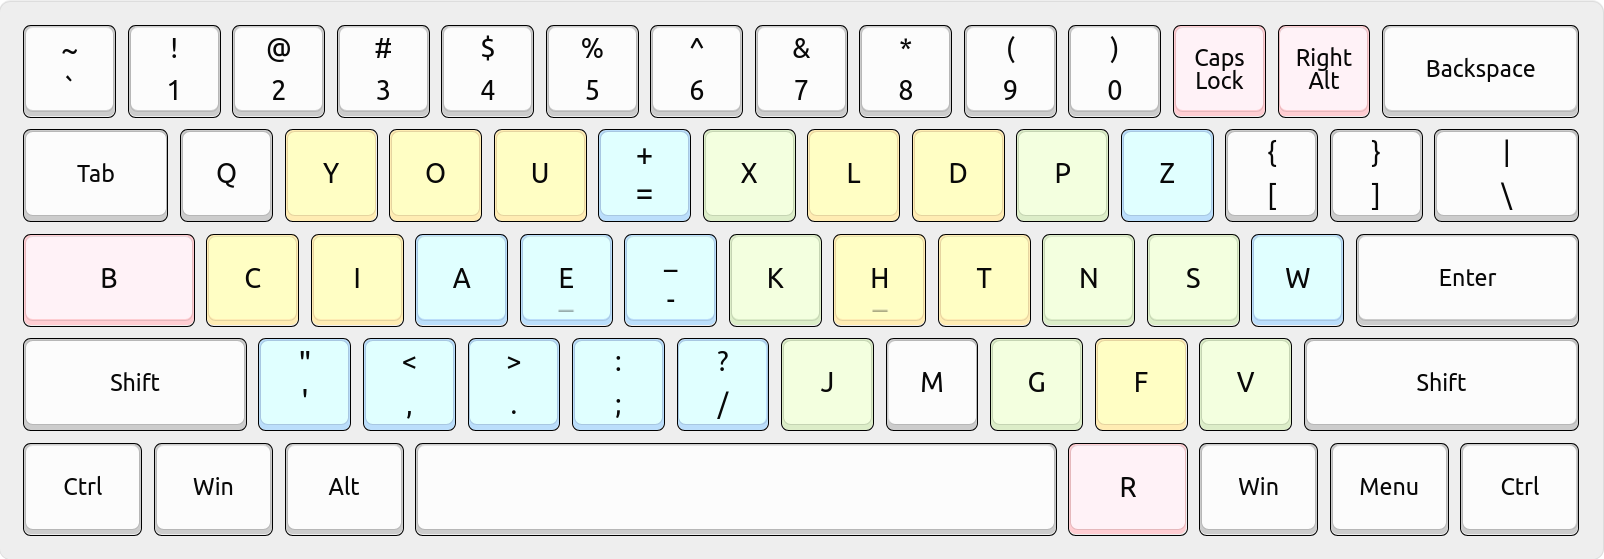
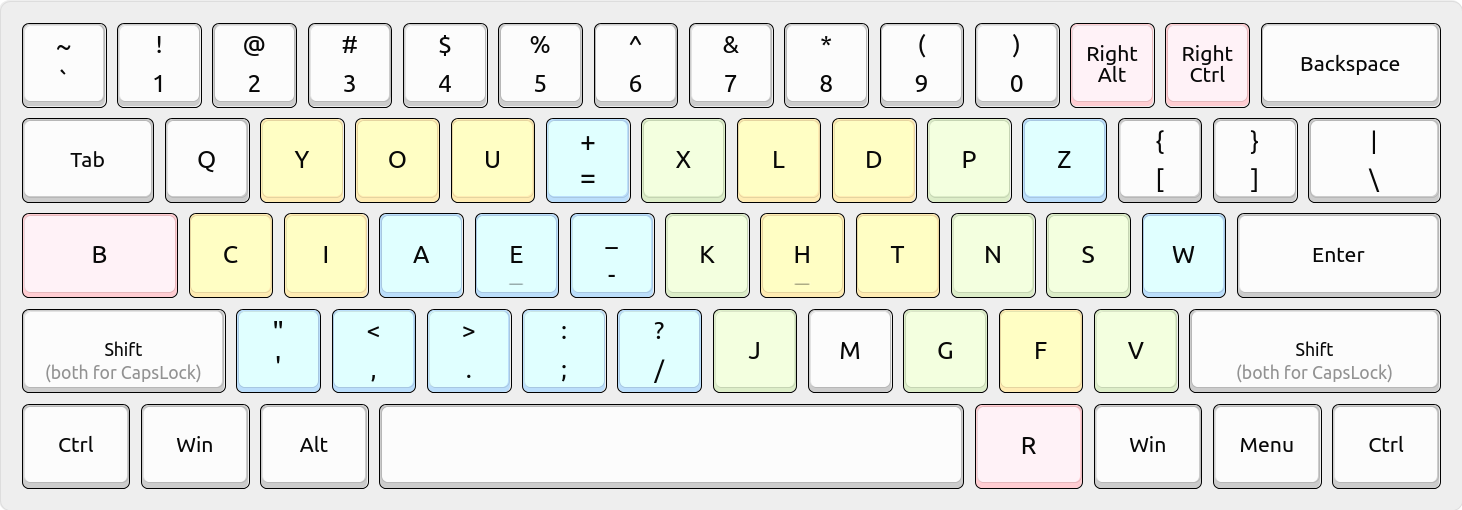
Alt on Minus, Ctrl on Equal, CapsLock on 2x Shifts

diff --git a/README.md b/README.md
@@ -178,10 +178,9 @@ Install:
     sudo make install
     echo Now restart your graphical session.
 
-Activate:
+Activate (tap both Shifts together for CapsLock; Win+Space for QWERTY toggle):
 
-    setxkbmap -layout us    -variant enthium         # one layout; no switch
-    setxkbmap -layout us,us -variant enthium,basic   # dual layout switching
+    setxkbmap -layout us,us -variant enthium,basic -option grp:shifts_toggle -option grp:win_space_toggle
 
 Repair (e.g. whenever a system-wide XKB package upgrade reverts installation):
 
